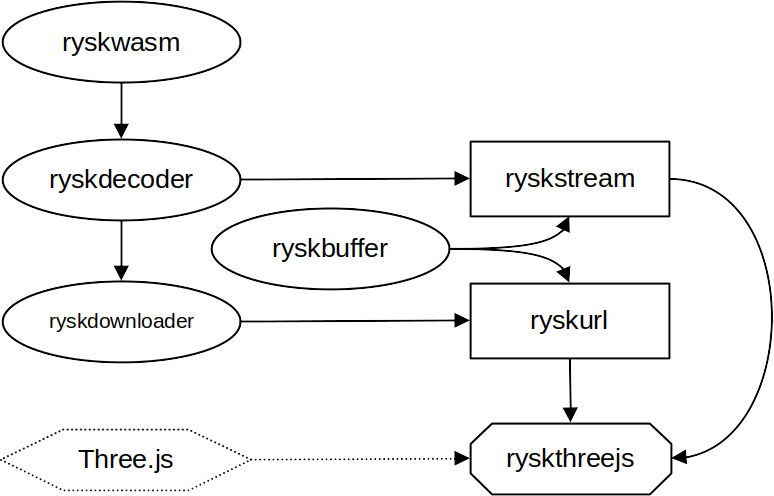
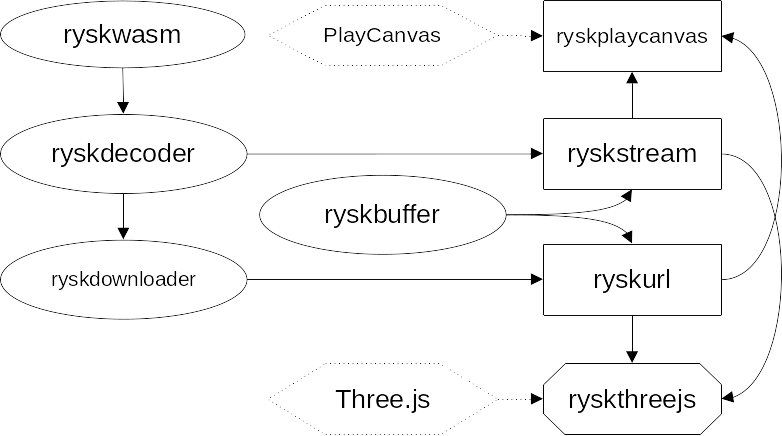
Some addition to documentation

diff --git a/README.md b/README.md
@@ -131,7 +131,8 @@ The following diagram shows dependencies between packages:
 ![alt Dependencies](./docs/images/dependencies.png)
 
 The core of the library is in the packages ``@mantisvision/ryskwasm`` and ``@mantisvision/ryskbuffer``.
-The entry points are usually ``@mantisvision/ryskurl`` and ``@mantisvision/ryskstream``.
+The entry points are usually ``@mantisvision/ryskurl`` and ``@mantisvision/ryskstream``  or one of the integration
+packages (currently ``@mantisvision/ryskthreejs`` or ``@mantisvision/ryskplaycanvas``)..
 
 ### Data flow
 The following diagrams show a simplified data flow between the packages. "Application" represents a custom program which

diff --git a/docs/ryskurlryskstream.md b/docs/ryskurlryskstream.md
@@ -242,7 +242,7 @@ constructor(videourl,dataurl,frameBufferSize = 100)
 ```
 ```javascript
 /**
- * Sets video to loop ot not to loop.
+ * Sets video to loop or not to loop.
  * @param val true to loop, false no to loop
  */
 set loop(val);
